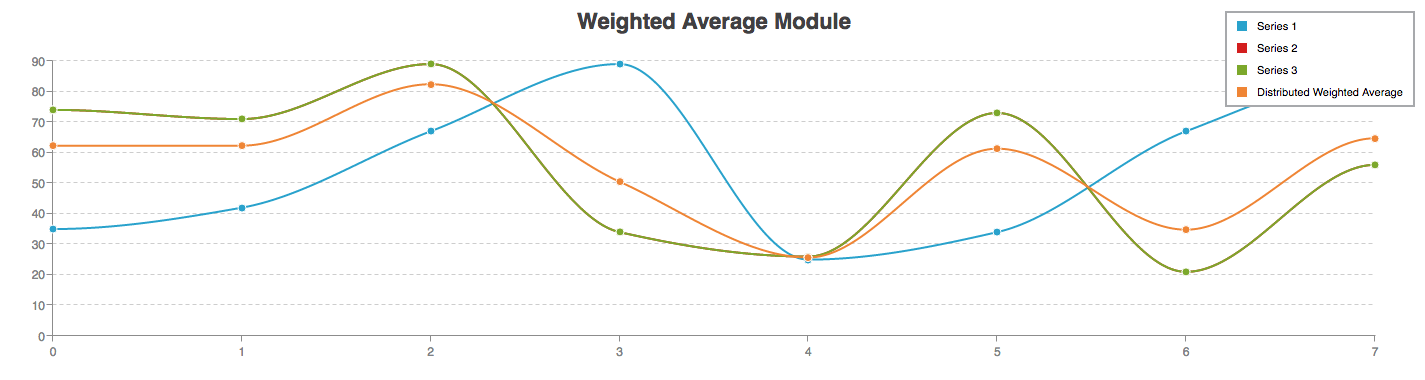
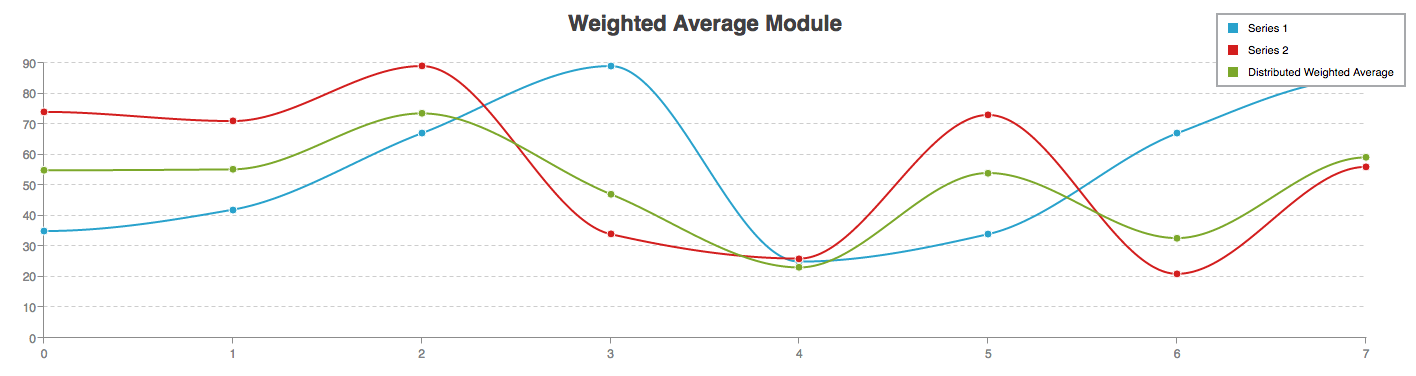
Updated example values

diff --git a/index.html b/index.html
@@ -37,10 +37,6 @@
                 {
                     values: [74,71,89,34,26,73,21,56],
                     weight: 0.6 // optional weight
-                },
-                {
-                    values: [74,71,89,34,26,73,21,56],
-                    weight: 0.1 // optional weight
                 }
             ]
         };

diff --git a/README.md b/README.md
@@ -32,10 +32,6 @@ There are a couple attributes you can define in your chart configuration for the
         {
             values: [74,71,89,34,26,73,21,56],
             weight: 0.6 // optional weight
-        },
-        {
-            values: [74,71,89,34,26,73,21,56],
-            weight: 0.1 // optional weight
         }
    ]
 </code></pre>
